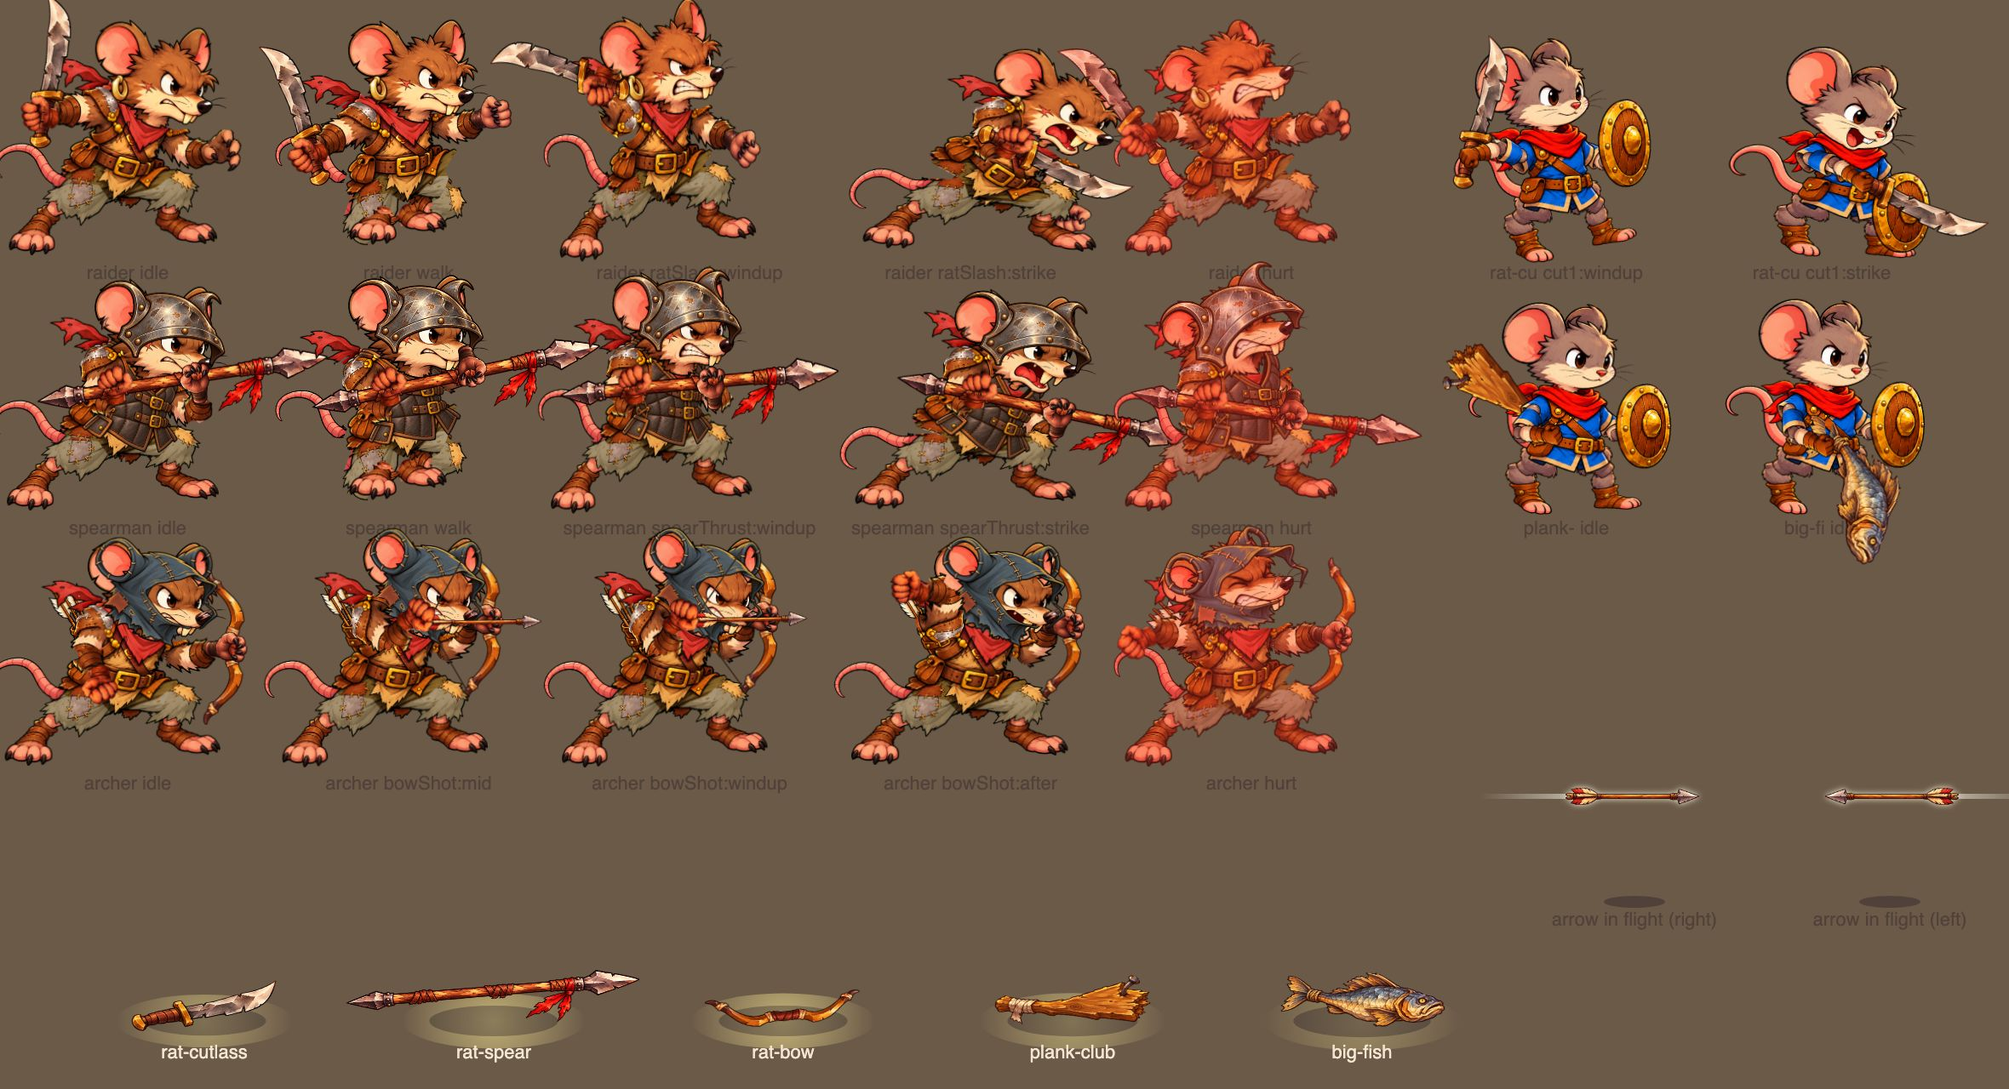
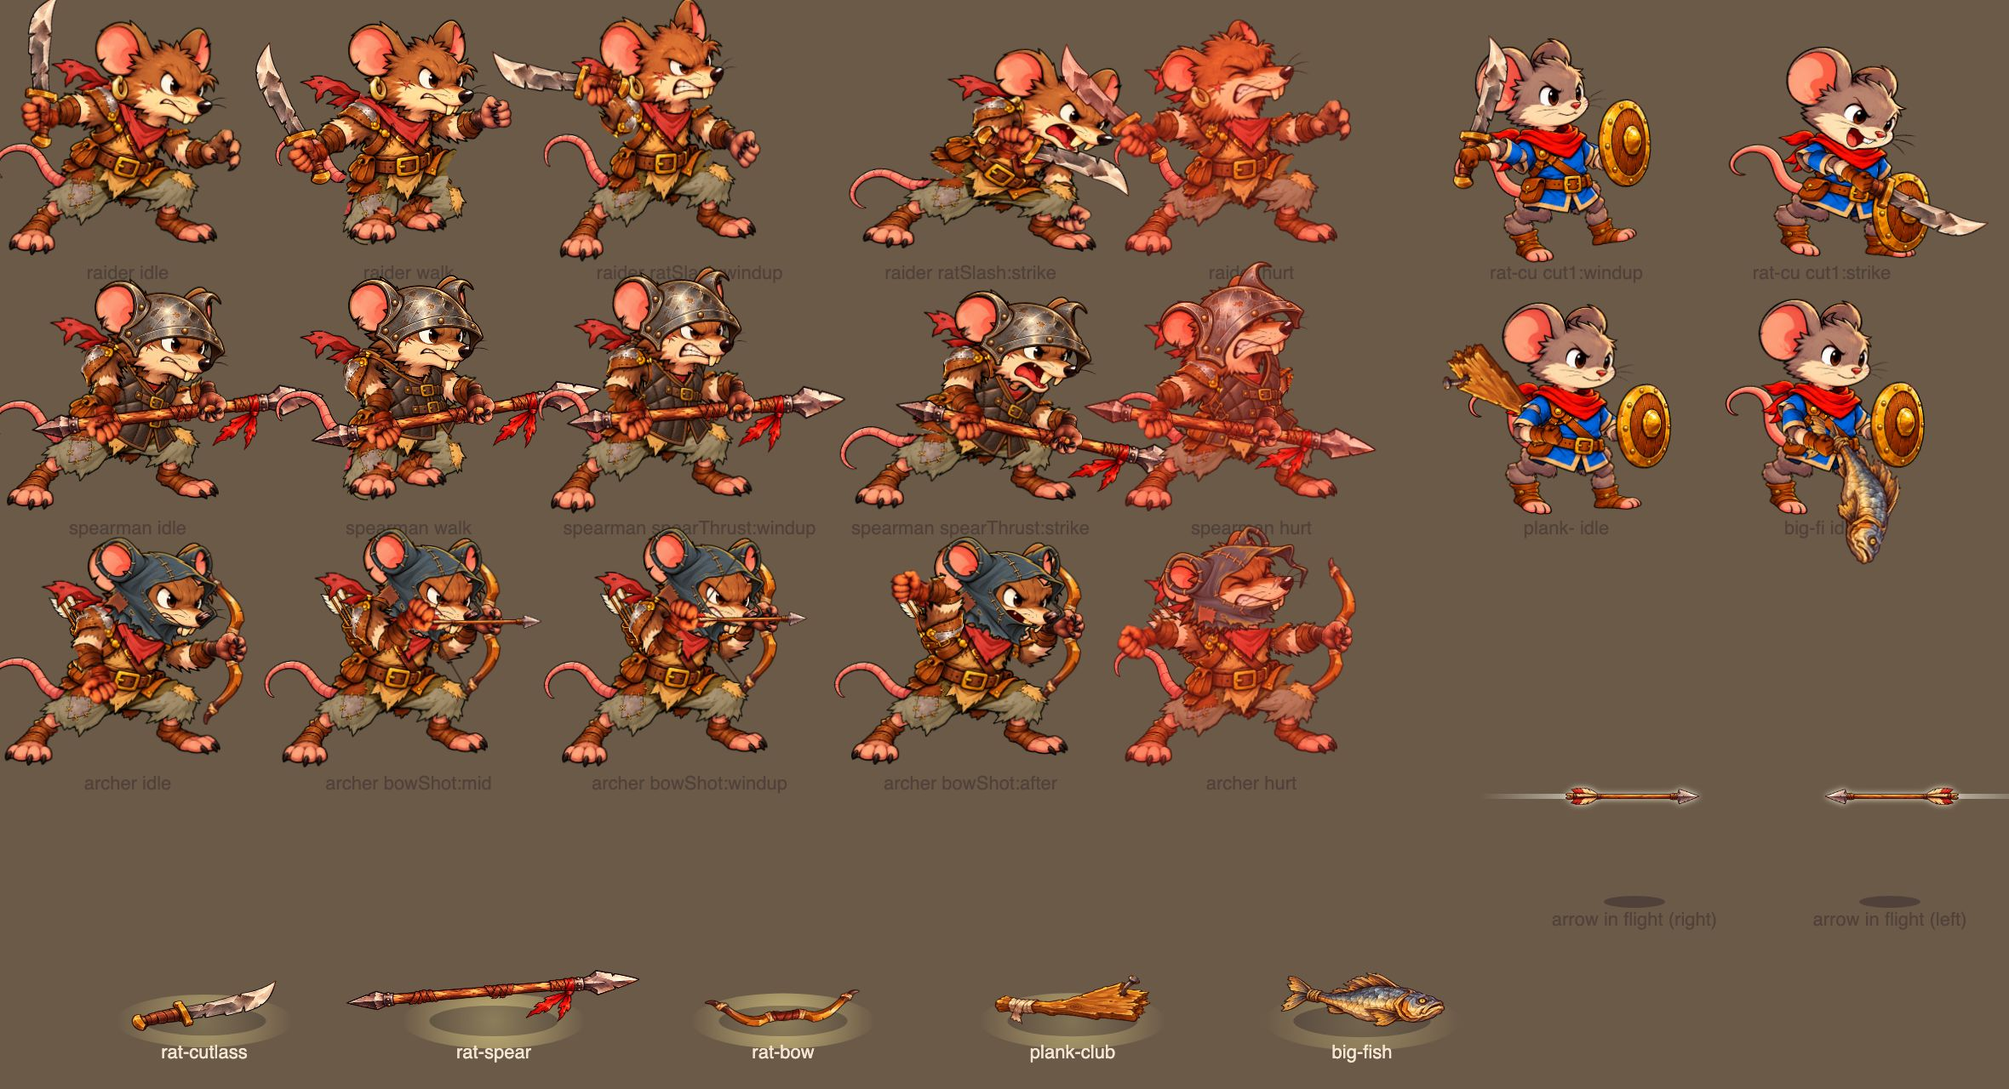
T020 round 2: cutlass at the user's angle with the edge away from the body; spear held low and out (back fist turned over, front fist from above, slides along the shaft); build v2

diff --git a/src/data/rigs/rat-spearman.js b/src/data/rigs/rat-spearman.js
@@ -1,25 +1,31 @@
 // Rat Spearman rig (T018): the A010 Rat Raider rig holding the spear kit (items/rat-spear.js) in the two-hand grip: near
 // grip hand low by the hip near the butt (slot in rigs/rat-raider.js), far grip hand closed on the shaft (IK,
 // render/rig-grip.js), point angled slightly up at the enemy. The far arm's angles here only pick the elbow's bend.
-// Spear direction on screen (0 = forward, - = up) = -90 (T020: the fist's slot axis) + torso + arm-front-upper + arm-front-lower
-// + hand-front.
+// T020 round 2 (user's pick E): back (near) fist turned over, underhand, low at the belt (the near arm is short: only
+// this way round does the shaft get below his chest); front (far) fist reaching out along the shaft, closing from above
+// (grips['two-hand'].wrist), on the spear's grip2 (62 px out from the back fist).
+// Spear direction on screen (0 = forward, - = up) = 90 (the turned-over fist's slot axis) + torso + arm-front-upper
+// + arm-front-lower + hand-front.
 import rat from './rat-raider.js';
 import base from './rat-raider-poses.js';
 
 const arms = (a, b, h, c, d) => ({ 'arm-front-upper': a, 'arm-front-lower': b, 'hand-front': h, 'arm-back-upper': c, 'arm-back-lower': d });
 const FRONT = { 'arm-front-upper.order': 815 };   // spear arm in front of the body (the far fist over the shaft: grips['two-hand'].order)
+const LOW = [-99, 54];   // near arm: IK'd so the back fist sits low in front of the belt
 export default {
   ...rat, id: 'rat-spearman',
+  axes: { ...rat.axes, 'two-hand': 90 },   // the back fist turned over: the shaft runs through it the other way
+  grips: { ...rat.grips, 'two-hand': { ...rat.grips['two-hand'], wrist: 'above' } },
   poses: {
     ...base,
-    stance: { ...base.stance, ...arms(-80, -59, -147, 20, 20), ...FRONT },   // spear -10 (point slightly up), near fist at the hip
-    idle: { ...base.idle, 'arm-front-upper': [-80, 3, 0.1], 'hand-front': -147, 'arm-back-upper': [20, 3, 0.1], 'hand-back': 0 },
-    walk: { ...base.walk, 'arm-front-upper': [-80, 4, 0.5], 'hand-front': -125, 'arm-back-upper': [20, 4, 0], swap: {} },   // T020: hand turned 22 deg against the walk's lean back, spear held level as in idle
-    hurt: { ...base.hurt, ...arms(-40, -70, -135, 20, 20), ...FRONT },
+    stance: { ...base.stance, ...arms(...LOW, -59, 20, 20), ...FRONT },   // spear -10 (point slightly up), back fist at the belt
+    idle: { ...base.idle, 'arm-front-upper': [LOW[0], 3, 0.1], 'hand-front': -59, 'arm-back-upper': [20, 3, 0.1], 'hand-back': 0 },
+    walk: { ...base.walk, 'arm-front-upper': [LOW[0], 4, 0.5], 'arm-front-lower': LOW[1], 'hand-front': -37, 'arm-back-upper': [20, 4, 0], swap: {} },   // hand turned 22 deg against the walk's lean back: spear level as in idle
+    hurt: { ...base.hurt, ...arms(0, 15, -80, 20, 20), ...FRONT },   // spear jolted 9 deg point-down; arm fitted so both fists keep the shaft
     moves: {
       spearThrust: {   // draws the spear back along his side (long telegraph), then drives it straight out at the enemy
-        windup: { swap: { head: 'head-effort' }, torso: -4, head: -2, dx: -4, ...arms(-50, -80, -139, 20, 30), ...FRONT, tail: 20 },
-        strike: { swap: { head: 'head-attack' }, torso: 14, head: -12, dx: 2, ...arms(-80, -45, -147, 20, 20), ...FRONT, tail: -25 },
+        windup: { swap: { head: 'head-effort' }, torso: -4, head: -2, dx: -4, ...arms(-50, -80, 41, 20, 30), ...FRONT, tail: 20 },
+        strike: { swap: { head: 'head-attack' }, torso: 14, head: -12, dx: 2, ...arms(-80, -45, 33, 20, 20), ...FRONT, tail: -25 },
       },
     },
   },

diff --git a/src/render/rig-grip.js b/src/render/rig-grip.js
@@ -55,18 +55,23 @@ function axesOf(L, held, G) {
   return [ang([0, 0], lin(w, [A.gripEnd[0] - A.grip[0], A.gripEnd[1] - A.grip[1]])), ang([0, 0], lin(h, [Math.cos(G.align * D), Math.sin(G.align * D)])), h];
 }
 // Solved in one go: the fist's axis goes along the shaft (the smaller turn, or the other way round if the arm can't
-// reach the wrist spot for that one: the ring holds either way); the arm is IK'd to put the wrist where the turned
+// reach the wrist spot for that one: the ring holds either way; or as `G.wrist` says: forearm 'above' / 'below' the
+// shaft); out of reach, the fist slides along the shaft toward the other hand; the arm is IK'd to put the wrist where the turned
 // fist's ring sits on the target, then the fist turns about the wrist onto the shaft line.
 function alignGrip(rig, joints, swap, held, G, target) {
   const end = G.ik.end, pivot = rig.parts[end].pivot, wrist = { ...G.ik, hand: pivot };
   let L = layoutRig(rig, joints, swap, held);
-  const [shaft, axis] = axesOf(L, held, G), T = target(L), P = at(rig, L, end, pivot), R = at(rig, L, end, G.ik.hand);
-  let d = wrap(shaft - axis);
+  const [shaft, axis] = axesOf(L, held, G), T0 = target(L), P = at(rig, L, end, pivot), R = at(rig, L, end, G.ik.hand);
+  let d = wrap(shaft - axis), T = T0;
   if (Math.abs(d) > 90) d = wrap(d + 180);
   const v = [R[0] - P[0], R[1] - P[1]], wristAt = (t) => [T[0] - (Math.cos(t * D) * v[0] - Math.sin(t * D) * v[1]), T[1] - (Math.sin(t * D) * v[0] + Math.cos(t * D) * v[1])];
   const S = at(rig, L, G.ik.arm[0], rig.parts[G.ik.arm[0]].pivot), E = at(rig, L, G.ik.arm[1], rig.parts[G.ik.arm[1]].pivot);
   const len = dist(S, E) + dist(E, P), out = (t) => dist(S, wristAt(t)) - len;
-  if (out(d) > 0 && out(d + 180) < out(d)) d = wrap(d + 180);
+  if (G.wrist) { if ((wristAt(d)[1] > T[1]) !== (G.wrist === 'below')) d = wrap(d + 180); }   // the forearm from below / above the shaft
+  else if (out(d) > 0 && out(d + 180) < out(d)) d = wrap(d + 180);
+  // out of reach: the fist slides back along the shaft (toward the other hand's grip) until the arm reaches
+  const back = [Math.cos(shaft * D), Math.sin(shaft * D)];
+  for (let k = 1; out(d) > 0 && k <= 80; k++) T = [T0[0] - back[0] * k, T0[1] - back[1] * k];
   const goal = axis + d;   // the fist axis' screen angle when done
   let j = joints;
   for (let i = 0; i < 2; i++) j = reach(rig, j, swap, held, wrist, () => wristAt(d));

diff --git a/src/data/rigs/rat-raider.js b/src/data/rigs/rat-raider.js
@@ -14,7 +14,8 @@
 // axes (T020): slot axis per grip type, degrees in the slot parent's px, pointing to the weapon's head (render/rig.js
 //   restIn turns the item so its handle runs along it). Near grip hand: its slot is cut straight up the fist (-90,
 //   measured on A010 hand-front-grip). Far grip hand: a ring of claws, the handle across the forearm (wrist -> ring
-//   centre is 2 degrees, so -88: the bow stands straight up with the hand level).
+//   centre is 2 degrees, so -88: the bow stands straight up with the hand level). T020 round 2: the cutlass sits 10 deg back
+//   of the cut slot (user's pick by eye: the knuckle rows lean); `mirror` on a slot flips the item across that axis.
 // grips: per grip type, the hand swaps it puts on, and IK (render/rig-grip.js): ik.arm = [upper, lower] joints it bends;
 //   ik.end = the part whose point ik.hand (that part's own px) must reach ik.to on the weapon art (spear `grip2`, bow
 //   `nock`); arrow / string = draw order of a nocked arrow and the drawn string (in front of the body).
@@ -37,11 +38,11 @@ export default {
   rootY: 43.144,    // pelvis pivot height above the feet in the master crouch (screen px)
   overlays: OVERLAYS, views: VIEWS, masks: MASKS,
   slots: {
-    'one-hand': { parent: 'hand-front', attach: SLOT, order: 830 },
+    'one-hand': { parent: 'hand-front', attach: SLOT, order: 830, mirror: true },   // T020 r2: edge away from the body (he holds it in the back arm)
     'two-hand': { parent: 'hand-front', attach: SLOT, order: 830 },
     bow: { parent: 'hand-back', attach: RING, order: 125 },
   },
-  axes: { 'one-hand': -90, 'two-hand': -90, bow: -88 },
+  axes: { 'one-hand': -100, 'two-hand': -90, bow: -88 },   // one-hand: the user's pick J (10 deg back of the cut slot: lines up with the knuckles)
   grips: {
     'two-hand': { swap: { 'hand-back': 'hand-back-grip' }, align: -88, order: { 'hand-back': 845 },
       ik: { arm: ['arm-back-upper', 'arm-back-lower'], end: 'hand-back', hand: RING, to: 'grip2' } },

diff --git a/src/data/items/rat-spear.js b/src/data/items/rat-spear.js
@@ -3,10 +3,11 @@ import { RAT_SPEAR } from '../moves/rat-spear.js';
 // the hip, on `grip` near the butt); the far hand closes on `grip2` mid-shaft (render/rig-grip.js IK). rest 90: the image
 // is drawn point-up (on the floor it lies point forward: `floor` 90). ai: what a fighter carrying this kit does (merged over
 // its own ai). Same fields as rat-cutlass.js. T020: A012 art (keyed x0.4; points from its weapons.json); px keeps the
-// grip-to-point length of A004's spear (128 px), so the 140 px thrust still ends at the point; gripEnd = grip2 (shaft line).
+// grip-to-point length of A004's spear (128 px), so the 140 px thrust still ends at the point; gripEnd = A012's grip2 (shaft line); T020 round 2: grip2 62 px out from the grip (A012's 50) so the
+// front arm reaches out along the shaft instead of folding at the chest.
 export default {
   id: 'rat-spear', name: 'Spear', kind: 'weapon',
-  art: { img: 'assets/art/items/rat-spear.png', px: 0.292, grip: [31.6, 438.8], gripEnd: [31.6, 266.8], grip2: [31.6, 266.8], tip: [32.4, 0.8], rest: 90, floor: 90 },
+  art: { img: 'assets/art/items/rat-spear.png', px: 0.292, grip: [31.6, 438.8], gripEnd: [31.6, 266.8], grip2: [31.6, 226.5], tip: [32.4, 0.8], rest: 90, floor: 90 },
   grip: 'two-hand', durability: 10,
   moves: RAT_SPEAR, attack: 'spearThrust',
   toss: { damage: 10, spin: 0.3, hitstop: 7, shake: 6 },

diff --git a/src/render/rig.js b/src/render/rig.js
@@ -92,7 +92,11 @@ export function heldOf(f, rig, sheathed = false) {
   const slot = typeof spec === 'string' ? spec : 'held', kit = W.def, grip = kit.grip;
   if (W.broken || (!f.weapon && f.dropped && f.def.drop?.item === kit.id)) return { slot, part: null, grip, kit };
   const A = kit.art, mount = typeof spec === 'string' ? {} : spec;   // T018: a slot's own `rest` turns the item in the hand
-  return { slot, grip, kit, part: { ...mount, img: A.img, pivot: A.grip, rest: restIn(rig, kit), scale: A.px / rig.scale } };
+  const k = A.px / rig.scale, ax = rig.axes?.[grip];
+  // T020: `mirror` slot: the item drawn flipped across the handle axis (handle still in the fist; a blade's edge on the
+  // other side, e.g. away from the body in the back hand). A reflection across angle ax = flip y, then turn rest - 2 ax.
+  if (mount.mirror && ax != null) return { slot, grip, kit, part: { ...mount, img: A.img, pivot: A.grip, rest: restIn(rig, kit) - 2 * ax, scale: [k, -k] } };
+  return { slot, grip, kit, part: { ...mount, img: A.img, pivot: A.grip, rest: restIn(rig, kit), scale: k } };
 }
 
 // T020: the handle runs through the fist. rig.axes[grip type] = the slot axis: the direction (degrees, in the slot

diff --git a/src/config.js b/src/config.js
@@ -3,4 +3,4 @@ export const VIEW = { w: 960, h: 540 };   // internal resolution; CSS scales to 
 export const FPS = 60;                    // sim runs at a fixed 60 steps/sec; all timings are in frames
 export const START_STAGE = 'harbor-run';   // ?stage=harbor-market in the URL loads the single-screen arena
 export const START_HERO = 'mouse-fighter';
-export const BUILD = 't020 rat weapons v1';
+export const BUILD = 't020 rat weapons v2';

diff --git a/docs/MODULES.md b/docs/MODULES.md
@@ -45,9 +45,9 @@ One line per file: what it does and what it exports. **Read this instead of the 
 | `src/render/props.js` | Props (bottom centre on their spot, shudder after a hit), floor items (soft glow under them, capped at `JUICE.items.glowMax`; `art.floor` turns an upright drawing to lie flat, T020; weapons blink before vanishing; spinning with ghosts in flight), held weapon on a standee (`art.hand`, swung by move phase) | `drawProp drawPropShadow drawItem drawHeldStandee` |
 | `src/render/prop-fx.js` | Effects from `propHit propBreak eat pickup itemLand weaponBreak` and `hit` with `move.fx.word`: chips, dust, debris pieces that tumble/bounce/fade (airborne in front, landed on the floor layer), crunch flash, heal number + sparkles, weapon snapping in two, pop-up words (one per swing) | `createPropFx` |
 | `src/render/standee.js` | Fighter drawn as a standee: lean/squash/hop per state (block = braced forward lean, jolts back in blockstun, breathes (T015 `braceOf`, `JUICE.brace`); `BLOCK_LEAN` and the breath lean are undone by the rig; grabbed = pulled up by the collar, doubles over on each knee, tips over when hoisted; thrown = tumbles round his middle, pose `cy`) and move phase, flips, flashes, tints | `drawStandee drawShadow poseOf braceOf BLOCK_LEAN` |
-| `src/render/rig.js` | Fighter drawn as a cutout rig (via `gripLayout`): part hierarchy -> buffer, then placed like a standee (lean, flip, flash, tints). Draws swap images (`layoutRig(rig, joints, swap, held)` returns each part's `img`, and `base`: its own image's matrix, T019); a swap may `hide` other parts and `carry` children onto points of its image (whole-arm drawings carrying the shield / sword, T012); optional held pose (`cast`). Held weapon: `heldOf(f, rig)` puts the kit's image, grip point (pivot) and size (`art.px / rig.scale`) on the rig's slot part for its grip type (`rig.slots`, e.g. one-hand -> sword); broken = empty hand; also empty while the sword is sheathed (pickup after the stow, a whole swap, first half of a sword draw). T020: the item's turn in the hand = `restIn(rig, kit)`: `rig.axes[grip]` (slot axis, parent px) minus the item's handle angle (`handleAngle`: grip -> art.gripEnd); without both, the slot's + item's `rest`. A def's `kit` (T011) is held when nothing else is; an object slot (`{parent, attach, order}`) adds the weapon as an upright part `held` (the bow) | `drawRig layoutRig heldOf` |
+| `src/render/rig.js` | Fighter drawn as a cutout rig (via `gripLayout`): part hierarchy -> buffer, then placed like a standee (lean, flip, flash, tints). Draws swap images (`layoutRig(rig, joints, swap, held)` returns each part's `img`, and `base`: its own image's matrix, T019); a swap may `hide` other parts and `carry` children onto points of its image (whole-arm drawings carrying the shield / sword, T012); optional held pose (`cast`). Held weapon: `heldOf(f, rig)` puts the kit's image, grip point (pivot) and size (`art.px / rig.scale`) on the rig's slot part for its grip type (`rig.slots`, e.g. one-hand -> sword); broken = empty hand; also empty while the sword is sheathed (pickup after the stow, a whole swap, first half of a sword draw). T020: the item's turn in the hand = `restIn(rig, kit)`: `rig.axes[grip]` (slot axis, parent px) minus the item's handle angle (`handleAngle`: grip -> art.gripEnd); without both, the slot's + item's `rest`. A slot with `mirror` draws the item flipped across that axis (T020 r2: the raider's cutlass edge faces away from his body). A def's `kit` (T011) is held when nothing else is; an object slot (`{parent, attach, order}`) adds the weapon as an upright part `held` (the bow) | `drawRig layoutRig heldOf` |
 | `src/render/rig-pose.js` | Rig pose per state/move phase (waves, windup/through/strike, easing, overshoot) and blending from the last drawn pose; part swaps per pose/phase (switch at once, strike swaps last `timing.swapBack` of recovery); optional pose override. A `through` pose's swaps show only mid-swing (`timing.throughSwap`; slash2's one back-view drawing). Channels: joint angles, dx/dy, `sx` whole-body width (-1 mirrored; slash2's mid-spin), per-part `.sx/.sy` stretch and `.order`. Grab poses: `grabbing`, `knee` (from `grab.knee` frames), `throwWind`/`throwWindBack` (mirrors) then `throwRelease`. Weapon `toss` then `tossRelease`; `pickup` = `stow` (sword swept back to the hip) -> `reach` (crouch, boots flat) -> idle. `squatLayer`: joints pulled toward the `jumpSquat` crouch (T014). `grabbed`/`thrown` use the rig's `held` pose if it has one (rats, T011). `drawLayer`: arm-only sword draw (to the `stow` arm and back up over `timing.drawSword`) after a held weapon is thrown or breaks; `mem.sheathed` hides the sword for its first half. A weapon kit move uses the rig move pose named by its `rig` field (club2 -> slash3), unless the rig's `kits[<item id>].moves` has its own (T017); `kits[<id>]` idle/walk lay over the normal ones (club shouldered, fish dangled). A move pose's `hold` = share of the windup held at the top (`tremble` deg arm shake). Pure | `targetPose rigJoints drawLayer squatLayer channelsOf jointsOfRig` |
-| `src/render/rig-grip.js` | Weapon grips (T011, T018 hands): for a held kit whose grip type is in `rig.grips`, puts on its hand swaps (rat: far `hand-back-grip`; near `hand-front-pinch` for the bow), bends `ik.arm` with 2-bone IK (2 passes, keeps the elbow's bend side) so `ik.hand` on the `ik.end` part (a hand riding on the lower arm; default the lower arm) lands on the kit's `grip2` (spear shaft) or the bow's `nock` pulled back by the draw; `hide`s parts; a drawn bow adds the string (`line` entry, order `G.string`) and the shot's arrow nocked (order `G.arrow`). A bow hand only reaches for the string over the first `reachIn` of the draw. T020: `align` (two-hand): the far fist's own axis laid along the shaft, solved in one go (wrist IK'd to where the turned fist's ring sits on `grip2`; the other way round if out of reach); `order`: draw orders while gripping (far fist over the shaft); `anchor` {part, at}: full draw pulls the string to that body point (the jaw) instead of the item's `pull`; the nocked arrow (A012, points right) lies along the bow's forward axis. Pure. Also exports its 2-bone IK (`reach`, `at`) for the brace loop's planted legs | `gripLayout drawOf reach at` |
+| `src/render/rig-grip.js` | Weapon grips (T011, T018 hands): for a held kit whose grip type is in `rig.grips`, puts on its hand swaps (rat: far `hand-back-grip`; near `hand-front-pinch` for the bow), bends `ik.arm` with 2-bone IK (2 passes, keeps the elbow's bend side) so `ik.hand` on the `ik.end` part (a hand riding on the lower arm; default the lower arm) lands on the kit's `grip2` (spear shaft) or the bow's `nock` pulled back by the draw; `hide`s parts; a drawn bow adds the string (`line` entry, order `G.string`) and the shot's arrow nocked (order `G.arrow`). A bow hand only reaches for the string over the first `reachIn` of the draw. T020: `align` (two-hand): the far fist's own axis laid along the shaft, solved in one go (wrist IK'd to where the turned fist's ring sits on `grip2`; the other way round if out of reach); `wrist` 'above'/'below': which side of the shaft the far forearm comes from (T020 r2: the spearman's front fist from above); out of reach, the far fist slides back along the shaft toward the near grip; `order`: draw orders while gripping (far fist over the shaft); `anchor` {part, at}: full draw pulls the string to that body point (the jaw) instead of the item's `pull`; the nocked arrow (A012, points right) lies along the bow's forward axis. Pure. Also exports its 2-bone IK (`reach`, `at`) for the brace loop's planted legs | `gripLayout drawOf reach at` |
 | `src/render/brace.js` | Bracing loop while blocking (T015): layered over the rig's blended `block` pose from `rig.brace` data: breath (torso stretch lifts head/shoulders), shield + guard arm lagging the breath, sword ready-grip twitch, hip sway (dx) with both boots kept on their spot by leg IK. Weight 0 outside block and in blockstun, eases in over `fade` frames; sway rests while shuffle-walking (`mem.swayW`). drawRig stores the layered pose in `mem.last` (no pop leaving block). Pure | `braceLayer braceWeight solesOf` |
 | `src/render/weapon-feel.js` | Weapon feel (T017): a held kit's `feel` (items/*.js) on the rig, layered after the other layers: `wobble` = damped spring on the slot joint kicked by the hand's change of turn and the body bob (the fish flops, settles in ~0.5 s); `squash` = each landed hit squashes the weapon along its length then stretches back (clock frozen during hit-stop); `bend` = drawn by rig.js in slices from the grip, each turning part of the way toward straight down (limp: the far end hangs to the floor) plus part of the wobble (the fish is floppy, not stiff); `fling`: a swing straightens it (stiff from the strike) and it goes limp again on a spring (whips down). Kits without `feel` unchanged. Render memory only; counts hits from `hit` events | `feelLayer stepWobble squashCurve handAngle bendSteps bendStrips stiffOf stepLimp` |
 | `src/render/shots.js` | Arrows in flight: art (T020: A012, drawn pointing right, `nock`/`tip` points; mirrored flying left) along the flight, bigger than nocked with a glow and speed streak (`JUICE.shot`), floor shadow | `drawShot drawShotShadow` |
